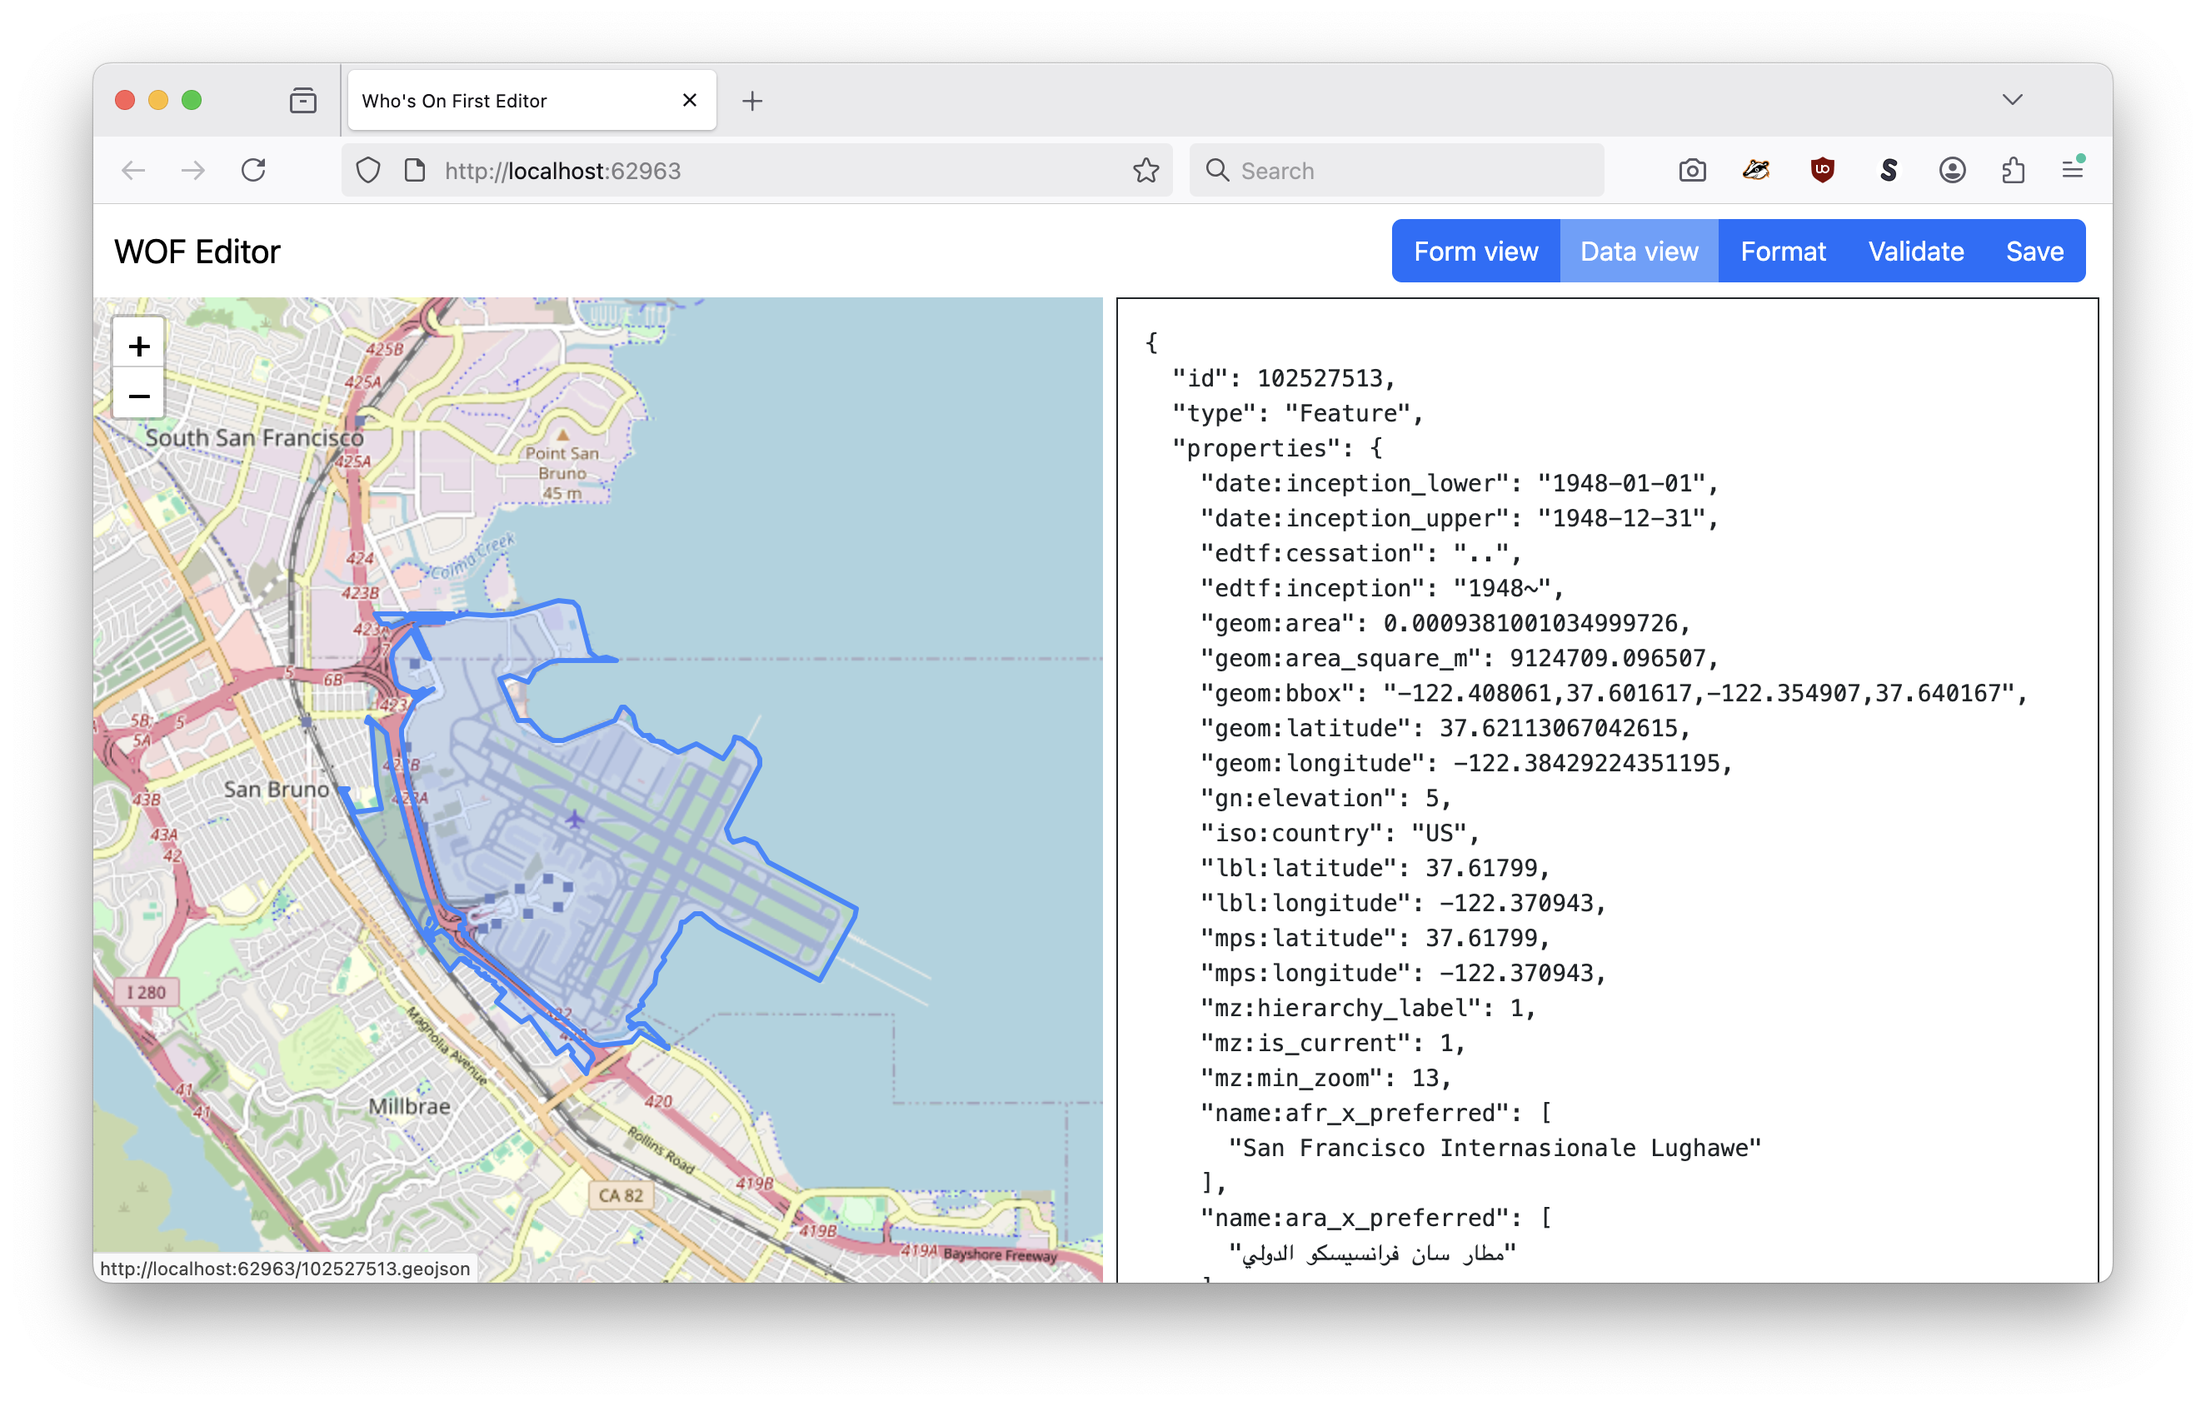
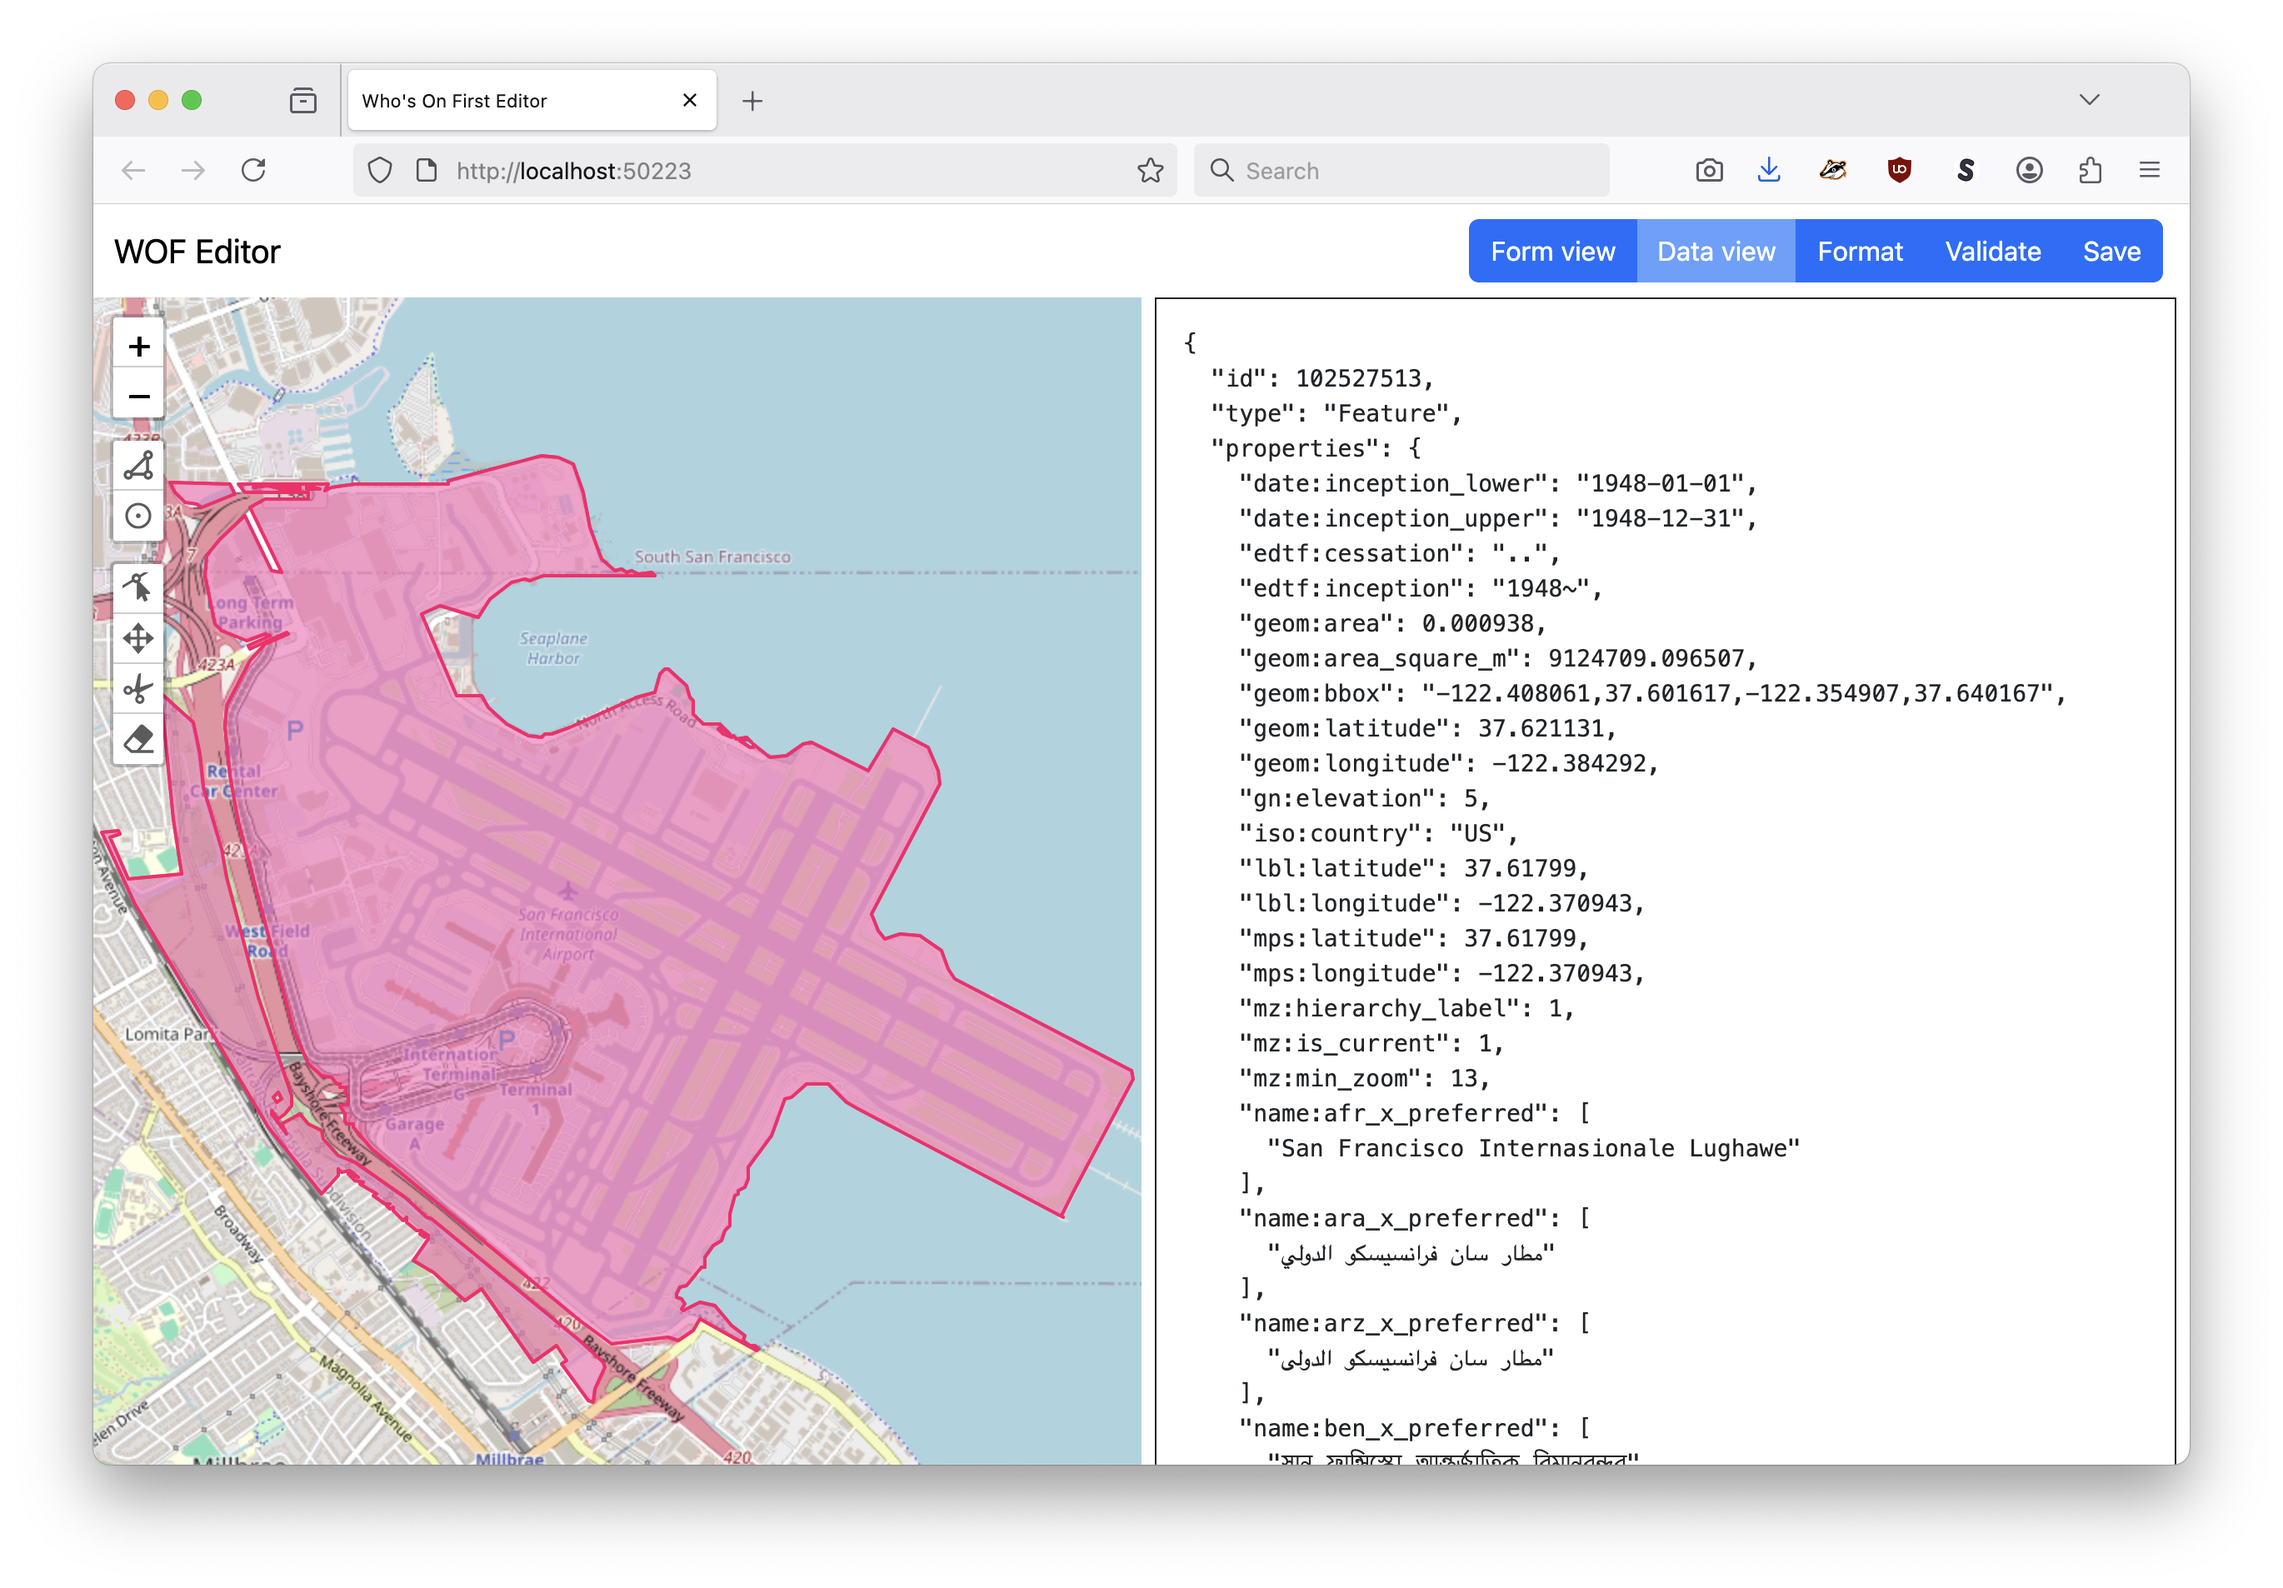
docs

diff --git a/edit/README.md b/edit/README.md
@@ -27,6 +27,8 @@ The `wof edit` command is modeled after the [iandees/wof-editor](https://github.
 
 * It provides a user-interface for editing the raw GeoJSON of a Who's On First record.
 
+* It enables the editing of GeoJSON `Feature` geometries from both the graphical user and raw data interfaces. The application does _NOT_ provide any facilities for automatically updating parent or hierarchy information because it still lacks built-in point-in-polygon functionality. Support for that functionality is on the list but I haven't quite figured out how best to implement it yet.
+
 ### Examples
 
 ```
@@ -52,6 +54,12 @@ The form view is a limited set of common WOF properties which most often need to
 ![](docs/wof-cli-edit-data.png)
 
 _The `Format` and `Validate` buttons are only enabled in "data" view. Data validation and formatting happens automatically in "form" view whenever a property is updated._
+
+#### Geometries
+
+![](docs/wof-cli-edit-form-geom.png)
+
+![](docs/wof-cli-edit-data-geom.png)
 
 #### Reading and writing from alternates source and targets
 
